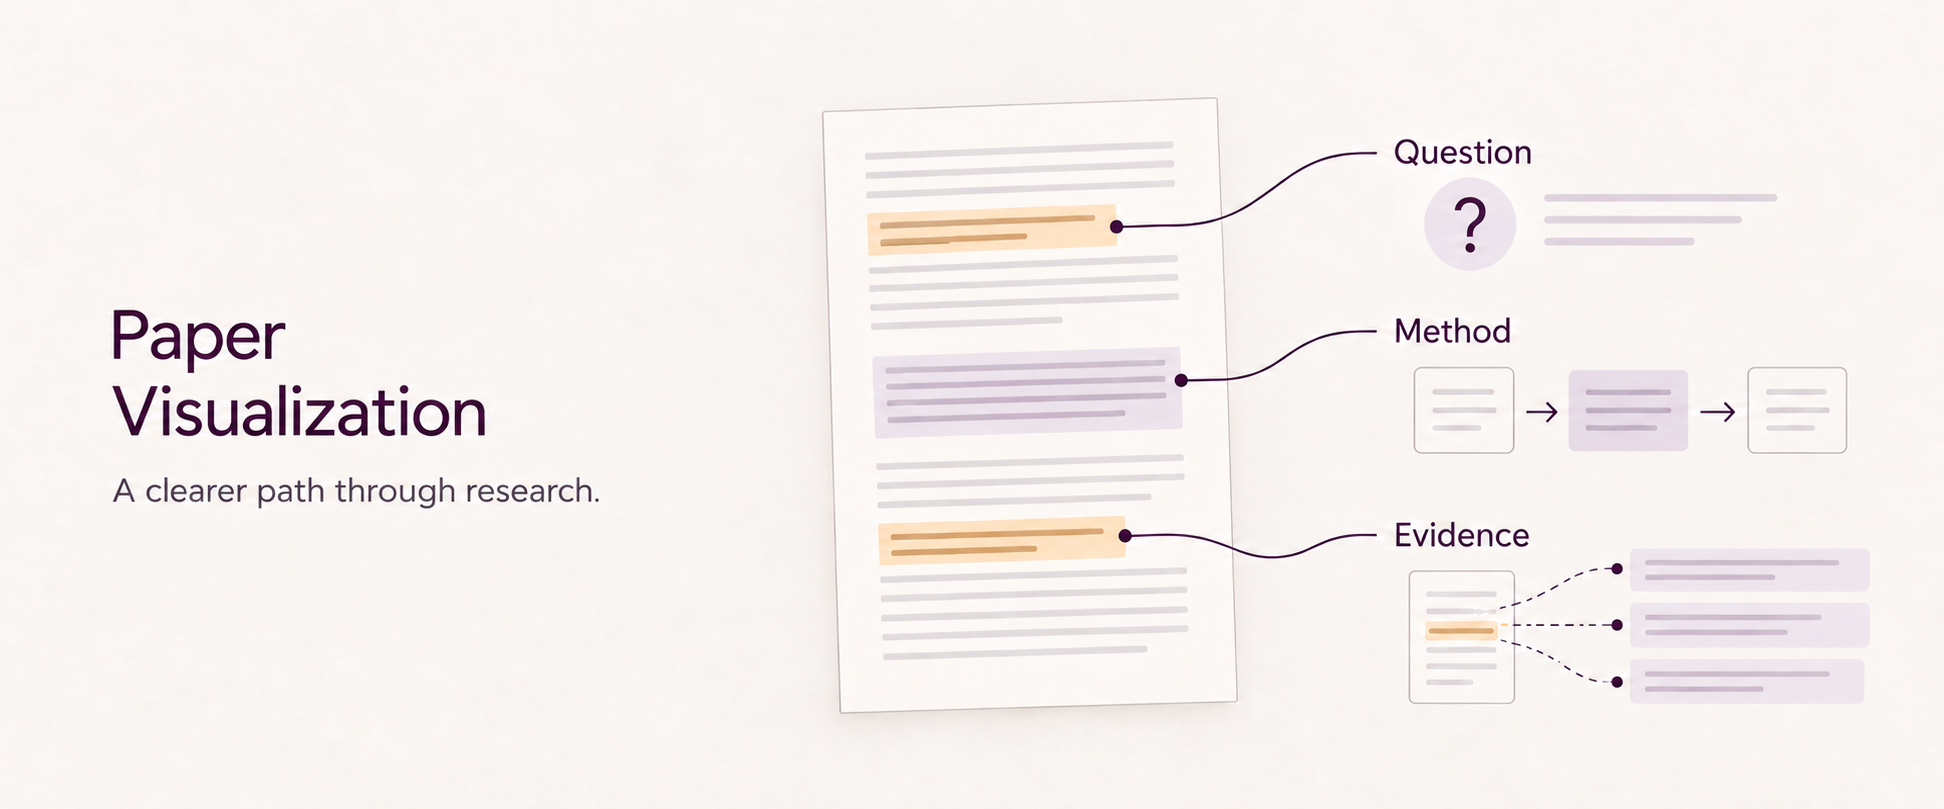
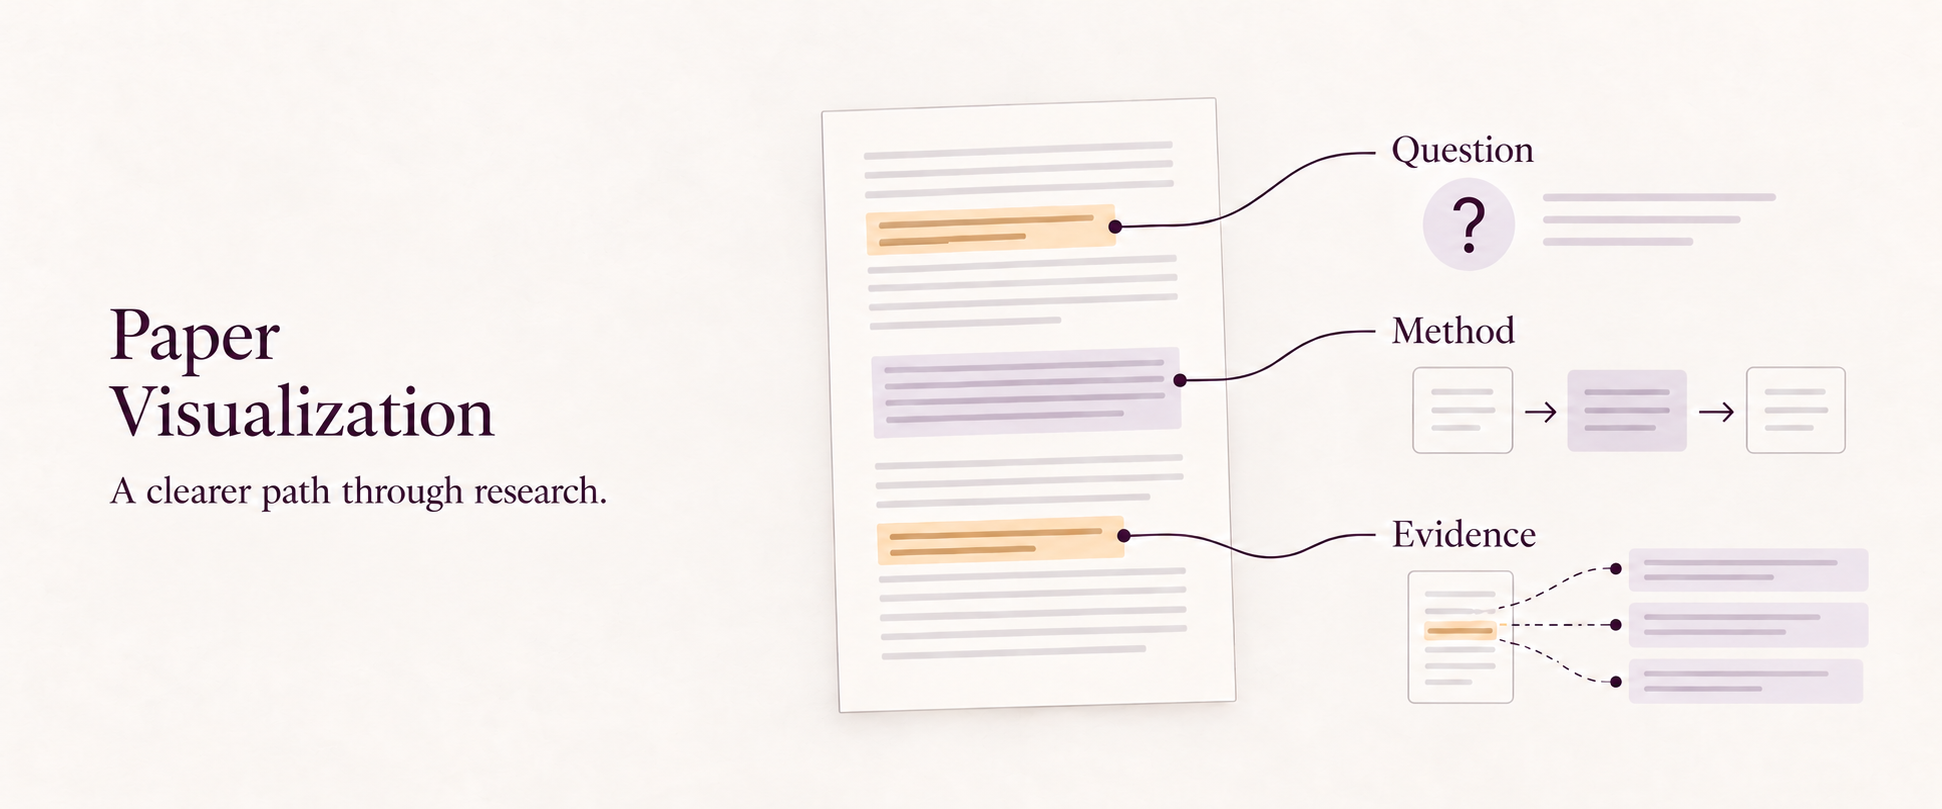
Use serif typography for bilingual README covers

diff --git a/docs/previews/cover-prompts.md b/docs/previews/cover-prompts.md
@@ -1,6 +1,6 @@
 # Cover prompts
 
-Created with the built-in ImageGen tool. These prompts describe the current covers: a new English composition, a typography refinement, and Chinese localization. Typography uses a restrained sans-serif treatment with open margins. The covers are conceptual illustrations. README preview screenshots are captured from the running example and are not generated images.
+Created with the built-in ImageGen tool. The prompts below establish the composition and localization, then apply the final regular book-serif typography in English and upright Songti in Chinese. The original palette, illustration and open margins are preserved. The covers are conceptual illustrations. README preview screenshots are captured from the running example and are not generated images.
 
 ## 1. English redesign
 
@@ -18,4 +18,16 @@ Use case: precise-object-edit. Refine only the LEFT typography in this English c
 
 ```text
 Use case: text-localization. Produce the Simplified Chinese edition of this EXACT final English README cover. Localize ONLY the readable text and adapt its line breaks for relaxed Chinese editorial typesetting. Keep the entire illustration geometry, manuscript and connectors, generic lines, highlights, background texture, color palette, aspect ratio, and open whitespace unchanged. Use clean NORMAL Chinese sans-serif typography comparable to PingFang SC Regular or Source Han Sans Regular. All character proportions must be standard square Chinese glyphs with consistent regular strokes: no calligraphy, no decorative Song serif, no extreme stroke contrast, no stretching, compression, skew, perspective, waving, or distorted characters. Replace the two-line title 'Paper' / 'Visualization' with exactly '论文可视化' on ONE horizontal line, at the same left margin; moderately sized, approximately 75px on this 1942px-wide canvas, light/regular weight, subtly open natural character spacing, and centered vertically within the old two-line title area. Give it generous space above and below. Replace the English subtitle with exactly two small, relaxed lines: first line '让研究更易读，' second line '让证据可追溯。'. Use approximately 31px normal sans-serif with open line spacing 1.5, same left alignment as the title; generous clear gap between title and subtitle. On the right replace 'Question' with '问题', 'Method' with '方法', 'Evidence' with '证据', in the same locations, normal readable regular sans-serif, around 32px. These are the ONLY words. Remove all English lettering. Preserve the question-mark symbol and the abstract diagram. Treat this like precise real publication typesetting, with accurate Chinese glyphs, full intact characters and calm margins. Do not enlarge typography to fill empty space. Nothing else changes.
+```
+
+## Final typography: English book serif
+
+```text
+Use case: precise-object-edit. Change ONLY all readable typography in this exact English Paper Visualization README cover from sans-serif to a restrained upright REGULAR book SERIF comparable to Baskerville Regular or Source Serif Regular. Preserve every word, line break, text anchor, approximate size, generous margins, open whitespace, warm paper-white #F7F3EE background, deep muted plum #51344D text, pale lavender highlights, ochre #B27630 highlights, manuscript page, its generic text rules, three curved connectors, question-mark illustration, method nodes, evidence notes, all shadows, texture and exact wide 2.4:1 canvas. Preserve every illustration and its exact position. Left title remains exactly two lines 'Paper' / 'Visualization', both the SAME moderate font size, normal regular weight, same left alignment and calm open line spacing about 1.25. Do not enlarge the title or fill empty space. Exact subtitle stays 'A clearer path through research.' on one line in smaller regular book serif, with the existing generous gap beneath the title. Right labels stay exactly 'Question', 'Method', 'Evidence', changed to the same upright regular serif at the same locations and readable sizes. Moderate stroke contrast, sturdy serifs, ordinary natural letter proportions. No decorative display type, extreme hairlines, bold, italics, ornate ligatures, calligraphy, stretching, compression, skew, warp, perspective or 3D lettering. The diagram's question-mark symbol may remain unchanged. No new words, graphics, colors or layout changes. This is the same airy plum research-reading cover, with only professionally typeset regular serif text.
+```
+
+## Final typography: Chinese upright Songti
+
+```text
+Use case: precise-object-edit. Change ONLY all readable Chinese typography in this exact Chinese Paper Visualization README cover from sans-serif to calm UPRIGHT REGULAR SONGTI / Chinese book SERIF comparable to Source Han Serif SC Regular or Songti SC Regular. Preserve every character, punctuation mark, line break, text anchor, approximate size, generous margins, open whitespace, warm paper-white #F7F3EE background, deep muted plum #51344D text, pale lavender and ochre #B27630 highlights, manuscript page and generic lines, all three curved connectors, question-mark symbol, method nodes, evidence notes, shadows, texture, every graphic position and exact 2.4:1 canvas. Left title stays exactly '论文可视化' on ONE horizontal line at the same moderate size and left margin, regular weight with natural spacing. Do NOT enlarge the title or fill empty space. Subtitle stays exactly two smaller lines '让研究更易读，' then '让证据可追溯。', regular upright Songti, relaxed line spacing about 1.5, same left alignment and generous gap beneath the title. Right labels remain exactly '问题', '方法', '证据', at the same positions and readable sizes, changed to regular upright Songti. Standard square glyph proportions, moderate stroke contrast, modest serifs, intact ordinary printed strokes. No heavy bold, decorative display Songti, exaggerated triangular terminals, hairline strokes, calligraphy, handwriting, italics, leaning axes, stretching, compression, skew, warp, perspective or 3D type. Preserve all wording and all illustration geometry; no English or new text, colors, objects or decorations. The result is the same airy plum research-reading cover with precise, relaxed, straight Songti typesetting.
 ```

diff --git a/docs/visuals.md b/docs/visuals.md
@@ -15,9 +15,9 @@ Warm paper-white supports long-form reading, deep plum gives titles and links a 
 | [example-zh.png](previews/example-zh.png) | Actual screenshot of the current Chinese reading example / 当前中文阅读示例的真实截图 |
 | [example-en.jpg](previews/example-en.jpg) · [example-zh.jpg](previews/example-zh.jpg) | Earlier screenshots retained for existing links / 为既有链接保留的早期截图 |
 
-The covers use restrained sans-serif typography, open margins, and an annotated manuscript connected to question, method, and evidence. They are conceptual illustrations, not application screenshots or research results. The PNG previews are captured directly from the HTML examples at 1440 × 900. Their copies in `examples/reading-demo/site/assets/` support social previews.
+The covers use regular book-serif typography in English and upright Songti in Chinese, open margins, and an annotated manuscript connected to question, method, and evidence. They are conceptual illustrations, not application screenshots or research results. The PNG previews are captured directly from the HTML examples at 1440 × 900. Their copies in `examples/reading-demo/site/assets/` support social previews.
 
-封面使用克制的无衬线字形和舒展的留白，以论文批注连接问题、方法与证据，属于概念示意，不是应用截图或科研结果。PNG 预览直接截自 HTML 示例，尺寸为 1440 × 900。`examples/reading-demo/site/assets/` 中的对应副本用于社交预览。
+封面采用规整的英文书籍衬线体与中文宋体，保留舒展的留白，以论文批注连接问题、方法与证据，属于概念示意，不是应用截图或科研结果。PNG 预览直接截自 HTML 示例，尺寸为 1440 × 900。`examples/reading-demo/site/assets/` 中的对应副本用于社交预览。
 
 The annotated paper and small reading diagrams in the example use native HTML and CSS. The example content comes from the public [content workflow](../skills/paper-visualization/references/workflow.md), [config schema](../skills/paper-visualization/references/config-schema.md), and [skill instructions](../skills/paper-visualization/SKILL.md). It reports no experimental findings and uses no external photographs or private research material.
 
